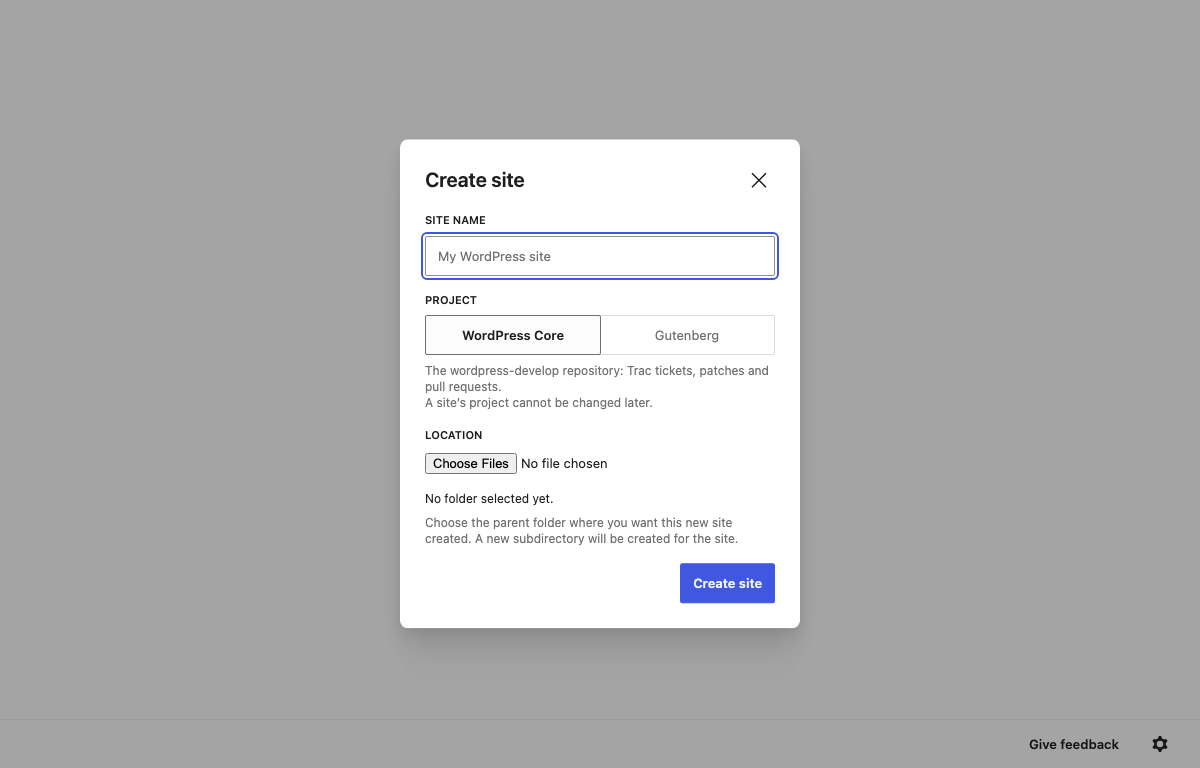
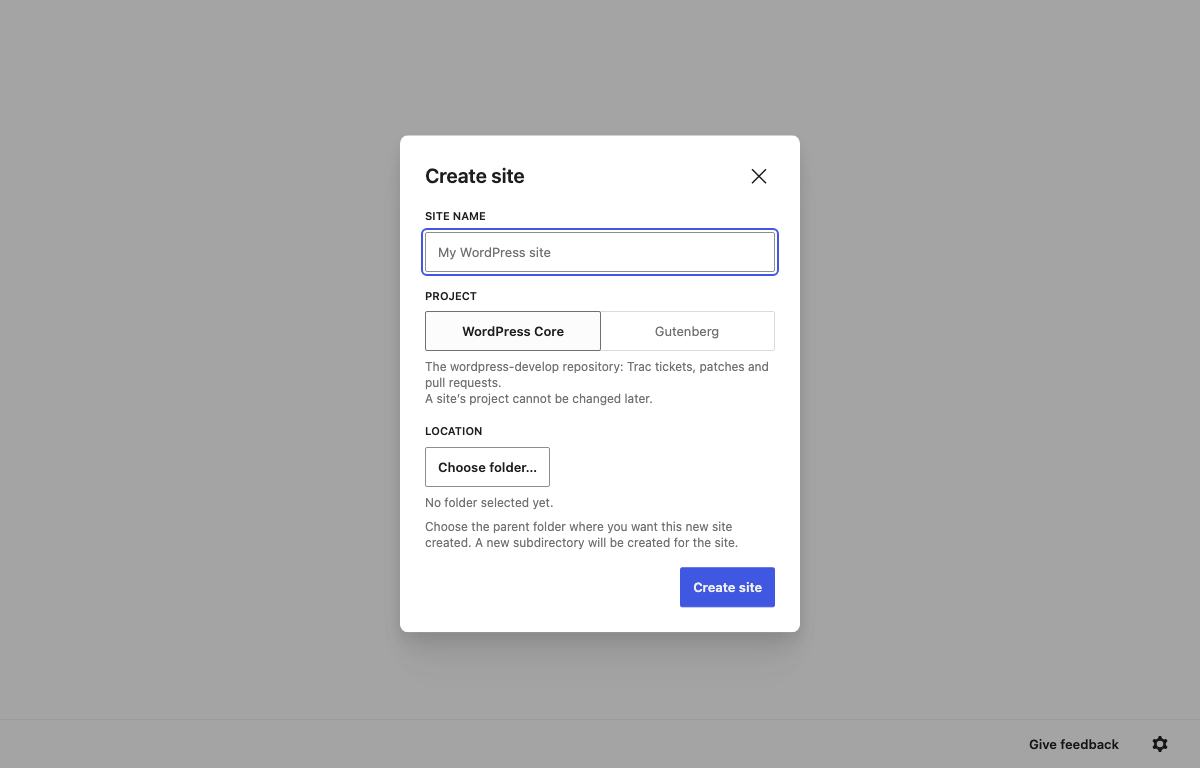
Make the folder fields a button, so Chromium draws none of their text
The create-site dialog's Location and the settings' New sites go here were a
file input, whose button and "No file chosen" Chromium draws in its own
language, not the one chosen in the settings, and reports to screen readers
as the input's value. They are now a button saying "Choose folder…", named
by the field and that text, and described by the folder it holds.

Dropping a folder on the input was the one thing it added, and #228 closed
that route as unsupported, so its handler and directoryFromFileEntry go too.

Fixes #655.

diff --git a/src/renderer/components/folder-field.jsx b/src/renderer/components/folder-field.jsx
@@ -1,14 +1,16 @@
+import { useId } from 'react';
 import { __ } from '@wordpress/i18n';
-import { Field, Text } from '@wordpress/ui';
+import { Button, Field, Text } from '@wordpress/ui';
 
 /**
  * A field whose answer is a folder (#557, #559).
  *
- * The field is a file input, which is what says "choose a folder" without a
- * word, and the folder it holds is said under it: the app asks the system
- * for a folder itself, since a page is not told where one is, and the input
- * is never left holding a selection. The create-site dialog and the settings
- * both ask with it.
+ * The field is a button that asks the system for a folder, since a page is
+ * not told where one is, and the folder it holds is said under it. Not a
+ * file input: Chromium draws that one's button and its "No file chosen" in
+ * its own language, which is not always the window's, and a folder dropped
+ * on it never had a path to give (#228, #655). The create-site dialog and
+ * the settings both ask with it.
  *
  * @param {Object}   props
  * @param {string}   props.label         What the folder is for.
@@ -17,34 +19,23 @@ import { Field, Text } from '@wordpress/ui';
  * @param {string}   [props.empty]       What to say in place of a folder when there is none.
  * @param {boolean}  [props.disabled]
  * @param {Function} props.onChoose      Asked to open the system's dialog.
- * @param {Function} [props.onFiles]     A folder dropped on the input, which arrives as files.
  */
-export function FolderField({ label, description, value, empty, disabled = false, onChoose, onFiles }) {
+export function FolderField({ label, description, value, empty, disabled = false, onChoose }) {
+  const labelId = useId();
+  const textId = useId();
+  // Named by the label and by what the button says, so "Choose folder" is
+  // in the name a voice control user would say (#655), and described by the
+  // folder it holds, so the folder is heard where the button is.
   return (
     <Field.Root className="folder-field" disabled={disabled}>
-      <Field.Label>{label}</Field.Label>
+      <Field.Label><span id={labelId}>{label}</span></Field.Label>
       <Field.Control
-        className="file-field-control"
-        render={
-          <input
-            type="file"
-            webkitdirectory=""
-            // eslint-disable-next-line react/no-unknown-property -- non-standard but required alongside webkitdirectory for cross-browser directory pickers.
-            directory=""
-            multiple
-          />
-        }
+        render={<Button variant="outline" tone="neutral" className="file-field-control"><span id={textId}>{__('Choose folder…')}</span></Button>}
+        aria-labelledby={`${labelId} ${textId}`}
         disabled={disabled}
-        onChange={onFiles}
-        onClick={(event) => { event.preventDefault(); onChoose(); }}
-        onKeyDown={(event) => {
-          if (event.key === 'Enter' || event.key === ' ') {
-            event.preventDefault();
-            onChoose();
-          }
-        }}
+        onClick={onChoose}
       />
-      <Text variant="body-sm" className="file-field-value">{value || empty || __('No folder selected yet.')}</Text>
+      <Field.Description render={<Text variant="body-sm" className="file-field-value" />}>{value || empty || __('No folder selected yet.')}</Field.Description>
       {description ? <Field.Description>{description}</Field.Description> : null}
     </Field.Root>
   );

diff --git a/tests/e2e/journeys/create-site.spec.js b/tests/e2e/journeys/create-site.spec.js
@@ -48,7 +48,7 @@ test( 'the create-site dialog refuses a missing name or location, starts clean e
 
 	const dialog = ui.createSiteDialog( page );
 	const name = dialog.getByLabel( 'Site name', { exact: true } );
-	const location = dialog.getByLabel( 'Location', { exact: true } );
+	const location = dialog.getByRole( 'button', { name: 'Location Choose folder…', exact: true } );
 	const core = dialog.getByRole( 'radio', { name: 'WordPress Core', exact: true } );
 	const gutenberg = dialog.getByRole( 'radio', { name: 'Gutenberg', exact: true } );
 	const create = dialog.getByRole( 'button', { name: 'Create site', exact: true } );
@@ -64,6 +64,10 @@ test( 'the create-site dialog refuses a missing name or location, starts clean e
 	const projects = dialog.getByRole( 'radiogroup', { name: 'Project', exact: true } );
 	await expect( projects ).toHaveAccessibleDescription( `${ projectHelp( 'core' ).about } ${ projectHelp( 'core' ).lasting }` );
 	expect( projectHelp( 'core' ).lasting ).toBe( 'A site’s project cannot be changed later.' );
+	// The folder is said where its button is, before what the field is for
+	// (#655).
+	const LOCATION_HELP = 'Choose the parent folder where you want this new site created. A new subdirectory will be created for the site.';
+	await expect( location ).toHaveAccessibleDescription( `No folder selected yet. ${ LOCATION_HELP }` );
 
 	// INVARIANT — it says which answer is missing, one at a time, as an
 	// alert, and starts nothing while one is: a name of spaces is no name.
@@ -80,6 +84,7 @@ test( 'the create-site dialog refuses a missing name or location, starts clean e
 	// about it away.
 	await location.press( 'Enter' );
 	await expect( dialog.getByText( parent, { exact: true } ) ).toBeVisible();
+	await expect( location ).toHaveAccessibleDescription( `${ parent } ${ LOCATION_HELP }` );
 	await expect( dialog.getByText( 'Please choose where to create the site.', { exact: true } ) ).toHaveCount( 0 );
 	await gutenberg.click();
 	await expect( gutenberg ).toBeChecked();

diff --git a/src/renderer/components/create-site-dialog.jsx b/src/renderer/components/create-site-dialog.jsx
@@ -8,7 +8,6 @@ import { __ } from '@wordpress/i18n';
 import { Button, Dialog, InputControl, Notice, Stack } from '@wordpress/ui';
 import { DEFAULT_PROJECT_TYPE } from '../../project-type.cjs';
 import { createSiteProblem, projectChoices, projectHelp } from '../create-site.cjs';
-import { directoryFromFileEntry } from '../site-folder.cjs';
 import { FolderField } from './folder-field.jsx';
 
 // The dialog's three answers and the button that sends them. It is inside
@@ -33,21 +32,6 @@ function CreateSiteForm({ formId, submitting, defaultDir, onCreate }) {
         setError('');
       }
     } catch {}
-  }, []);
-
-  // Not reached by the intended route, which is the system's dialog above:
-  // a folder dropped on the input arrives here.
-  const takeFiles = useCallback((event) => {
-    const input = event.target;
-    const files = input.files;
-    if (files && files.length > 0) {
-      const resolved = directoryFromFileEntry(files[0], input.value);
-      setDir(resolved);
-      // Clearing the error only when there is a directory: a selection that
-      // resolved to nothing has not fixed anything the message was about.
-      if (resolved) setError('');
-    }
-    input.value = '';
   }, []);
 
   const submit = (event) => {
@@ -91,7 +75,6 @@ function CreateSiteForm({ formId, submitting, defaultDir, onCreate }) {
             value={dir}
             disabled={submitting}
             onChoose={chooseFolder}
-            onFiles={takeFiles}
           />
           {error ? (
             // An alert, which is said as it appears. The notice is told to

diff --git a/tests/e2e/journeys/i18n.spec.js b/tests/e2e/journeys/i18n.spec.js
@@ -102,6 +102,10 @@ test( 'the first-run screen and the create-site dialog are fully translatable', 
 	await expect( dialog ).toBeVisible();
 	await expect( dialog.getByRole( 'button', { name: /^\[/ } ).first() ).toBeVisible();
 	expect( await unwrapped( dialog ) ).toEqual( [] );
+	// The folder's button is the app's own, not a file input, whose button
+	// and "No file chosen" Chromium draws in its own language, where the scan
+	// cannot see them (#655).
+	await expect( dialog.getByRole( 'button', { name: `${ pseudoLocalize( 'Location' ) } ${ pseudoLocalize( 'Choose folder…' ) }`, exact: true } ) ).toHaveText( pseudoLocalize( 'Choose folder…' ) );
 
 	// A validation error is wrapped too.
 	await dialog.getByRole( 'button', { name: pseudoLocalize( 'Create site' ), exact: true } ).click();
@@ -116,6 +120,7 @@ test( 'the settings dialog is fully translatable, on both of its tabs', async ( 
 	await expect( dialog ).toBeVisible();
 	await expect( dialog.getByText( pseudoLocalize( 'Not set: the create-site dialog asks each time.' ), { exact: true } ) ).toBeVisible();
 	expect( await unwrapped( dialog ) ).toEqual( [] );
+	await expect( dialog.getByRole( 'button', { name: `${ pseudoLocalize( 'New sites go here' ) } ${ pseudoLocalize( 'Choose folder…' ) }`, exact: true } ) ).toHaveText( pseudoLocalize( 'Choose folder…' ) );
 
 	// The Sites tab, once it has the PHP versions: their numbers are not
 	// words and stay as they are.

diff --git a/tests/e2e/journeys/settings.spec.js b/tests/e2e/journeys/settings.spec.js
@@ -41,7 +41,7 @@ test( 'the folder new sites go in is chosen in the settings, used by the create-
 
 	// INVARIANT — a folder chosen is shown, kept, and offered to be forgotten.
 	await session.answerFileDialog( [ parent ] );
-	const field = dialog.getByLabel( 'New sites go here', { exact: true } );
+	const field = dialog.getByRole( 'button', { name: 'New sites go here Choose folder…', exact: true } );
 	await field.press( 'Enter' );
 	await expect( dialog.getByText( parent, { exact: true } ) ).toBeVisible();
 	await expect( notSet ).toHaveCount( 0 );
@@ -67,7 +67,7 @@ test( 'the folder new sites go in is chosen in the settings, used by the create-
 	await expect( create.getByText( 'No folder selected yet.', { exact: true } ) ).toHaveCount( 0 );
 	const other = session.track( fs.mkdtempSync( path.join( os.tmpdir(), 'wpct-e2e-other-' ) ) );
 	await session.answerFileDialog( [ other ] );
-	await create.getByLabel( 'Location', { exact: true } ).press( 'Enter' );
+	await create.getByRole( 'button', { name: 'Location Choose folder…', exact: true } ).press( 'Enter' );
 	await expect( create.getByText( other, { exact: true } ) ).toBeVisible();
 	await ui.closeDialogButton( create ).click();
 	await expect( create ).toHaveCount( 0 );

diff --git a/src/renderer/shell.css b/src/renderer/shell.css
@@ -1310,21 +1310,10 @@ body {
 }
 
 /* A folder field (#557, #559), in the create-site dialog and the settings.
-   The folder is asked for with a file input, as wide as the dialog, and the
-   folder that was chosen is said under it: a path has no spaces to break
-   at. */
+   The folder that was chosen is said under its button: a path has no
+   spaces to break at. The button keeps its own width, not the field's. */
 .folder-field .file-field-control {
-  width: 100%;
-  min-height: var(--wpds-dimension-size-md);
-  font: inherit;
-  color: inherit;
-}
-
-/* The ring the design system's own controls have, where the browser would
-   draw its own. */
-.folder-field .file-field-control:focus-visible {
-  outline: var(--wpds-border-width-focus) solid var(--wpds-color-stroke-focus);
-  outline-offset: var(--wpds-border-width-focus);
+  align-self: flex-start;
 }
 
 .folder-field .file-field-value {

diff --git a/tests/e2e/real-setup/create-site.spec.js b/tests/e2e/real-setup/create-site.spec.js
@@ -72,7 +72,7 @@ for ( const target of TARGETS ) {
 					await name.fill( 'real-setup' );
 					await expect( name ).toHaveValue( 'real-setup', { timeout: 2_000 } );
 				} ).toPass( { timeout: 30_000 } );
-				await modal.getByLabel( 'Location', { exact: true } ).press( 'Enter' );
+				await modal.getByRole( 'button', { name: 'Location Choose folder…', exact: true } ).press( 'Enter' );
 				await modal.getByRole( 'button', { name: 'Create site', exact: true } ).click();
 			} );
 
